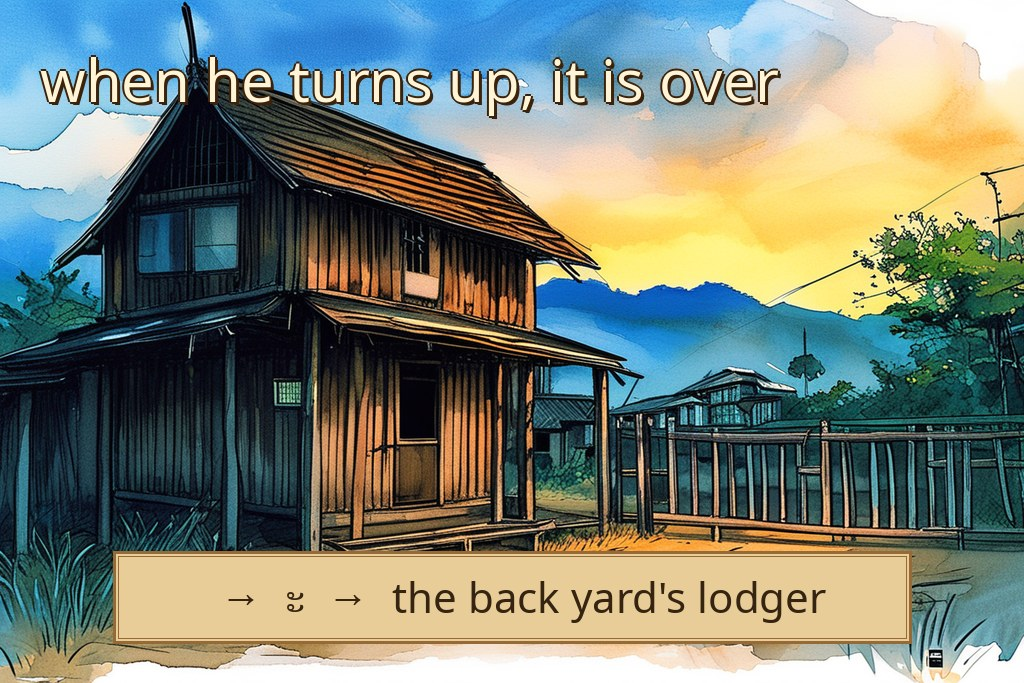
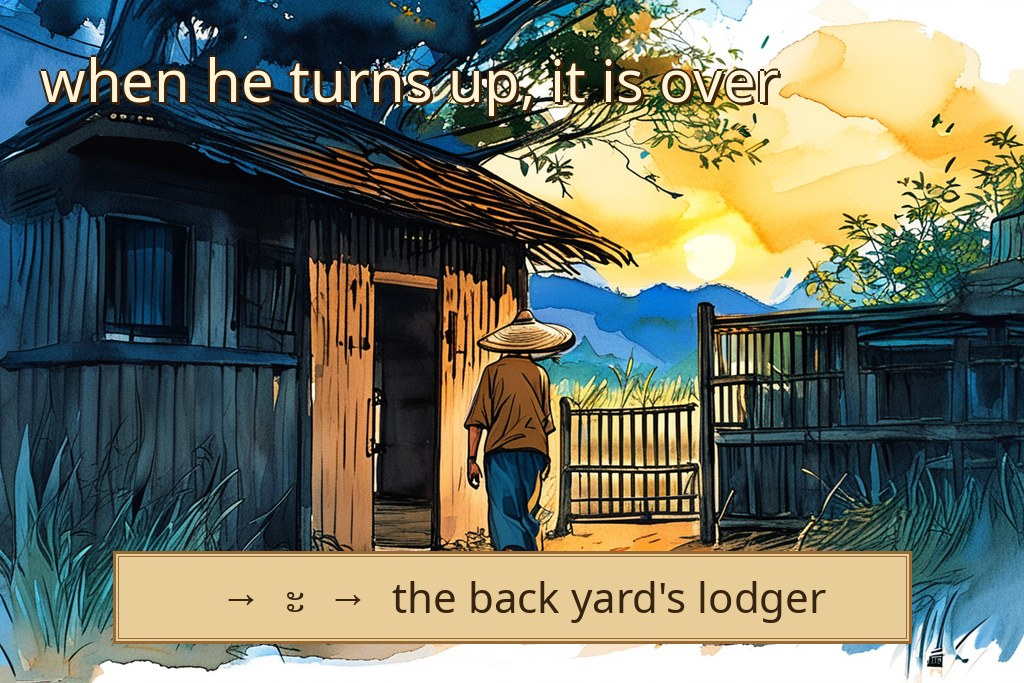
Put the lodgers in their own pictures, and write lesson 5
THE VOWEL PICTURES HAD NOBODY IN THEM. The whole scheme is that a vowel's
part is a person — and then I wrote "No people" into every vowel scene, so
meet-at shipped a caption reading "when he turns up, it is over" and "the
back yard's lodger" over a photograph of an empty house. The caption
promised a person and the picture contradicted it.

meet-ik was the exception and it proves the prompt works: asked for a figure
at the balcony rail, the model drew one, and it is the strongest vowel image
in either lesson. So the four empty ones are re-rendered with their lodger in
them. He arrives through the back gate and swings it shut behind him. He
leans against the closed gate with his arms folded. She comes down the
outside stairs in a hurry, which is the short form of the roof's vowel. And
he climbs a ladder because a handcart has taken the whole yard, which is mai
han akat with a person in it.

LESSON 5 follows the same bargain as lessons 3 and 4: ฟ is พ with one stroke
grown taller, so the two share a shrine at the top of the beach — a tray, and
on the tray a tooth somebody brought up in a net thirty years ago and nobody
wanted on the boat. The tray's sound is the puff the shrine-keeper puts the
incense out with. The tooth's sound needs no mnemonic at all, because the
letter's own word is a tooth and the sound is made at the teeth; the skeleton
spotted that before I did.

The cellar opens, and it pays off the flick twice over. Lesson 3 planted it,
[…]

diff --git a/content/lessons/lesson-05.md b/content/lessons/lesson-05.md
@@ -5,50 +5,278 @@ lesson: lesson-05
 <!--
 Opening band, lesson 5 of 5. Declares พ and ฟ, and the vowels ุ and ู.
 previews: none
+
+ONE PLACE, ONE PAIR. ฟ is พ with its last stroke grown taller — the shipped
+cue calls it one tooth outgrowing the row — so the two letters share a shrine
+at the top of the beach: a tray, and on the tray a tooth somebody brought back
+out of the water. Same bargain as the elephant and the chain.
+
+BOTH LETTERS BREATHE, which the learner can now test, because lesson 3 taught
+the palm and lesson 4 gave them an aspirated letter to feel. And ฟ's own word
+is fan, a tooth, and the sound is made at the teeth — that is free, and the
+skeleton spotted it before I did.
+
+THE CELLAR OPENS, and it pays off the flick. Lesson 3 planted it, lesson 4
+revealed it upstairs, and here the same idea turns up downstairs: ู is ุ
+reaching further. Two rooms, one rule, and the learner is told plainly that
+this is the second time they have seen it.
+
+The cellar's lodger is อุ้ม, which means to carry or to hold — a common Thai
+nickname, and what a cellar does. Provisional like the others; it wants a
+Thai speaker's ear. Both of his lengths arrive in this lesson, unlike the
+roof's, so the stroke rule is visible on the slide rather than a lesson apart.
+
+MNEMONICS ARE TAKEN, NOT FORCED, and PEN AND PAPER EVERY LESSON, both
+unchanged from lesson 3. A challenge and its answer never share a slide.
 -->
 
-## exposition tray-and-tooth
-heading: phaaw phaan and faaw fan
-- พ is three prongs in a row with every tip stopping level and the head curled outside the left rim — a tray set flat.
-- ฟ is that same figure with its last stroke grown taller than the rest, one tooth outgrowing the row. Its name word is fan, a tooth, which is a useful accident.
-- พ pushes p out on a breath. ฟ brushes breath past the teeth as f. Both breathe; neither hums and neither stops.
+## exposition what-is-here
+image: images/lesson-05/what-is-here.jpg
+scene: A fishing harbour quay in the late afternoon, moored wooden longtail boats, drying nets on poles, the beach rising to scrub and a few low buildings at the top, warm light.
+heading: Two letters, two vowels, and the tone that falls
+narration: en Last of the opening band, and you are going to finish it able to read a fair number of ordinary words. Two consonants, and they are another near-identical pair, which by now you will have noticed is how this alphabet is built. Two vowels, and they open the one room of the house you have not been into yet. And one tone rule, which is the one that finally makes your voice do something interesting — everything so far has been flat, or it has jumped up. Today something falls.
+- Two consonants, another near-identical pair.
+- Two vowels, and the last room of the house.
+- The first tone that **falls**.
+
+## exposition the-trick
+image: images/lesson-05/the-trick.jpg
+scene: A small weathered spirit shrine on a post at the top of a harbour beach, a golden offering tray set on it wrapped in flowers, incense smoking, the sea and moored boats below and behind, late golden light.
+heading: The shrine at the top of the beach
+narration: en Go up the beach, past where the elephant drags the boats out, to where the sand gives up and the scrub starts. There is a shrine up here on a post, about the height of your shoulder, and every harbour in the country has one. Nobody goes out in a boat without stopping at it. There is an offering tray on it, wrapped in flowers, and there is always incense going. And there is one other thing sitting on that tray which we will come to, because it is the second letter and it is the reason people stop and look. Both of today's letters live up here and both are low class, which is the harbour, so no surprises there. And both of them breathe. You have felt this once already, on the elephant — palm up, air thrown. Neither of today's two hums, and neither of them stops. They breathe, and they breathe in two different places in your mouth.
+- Both low class, both at the harbour, both up at the shrine.
+- **Both breathe.** Neither hums, neither stops.
+- Two different places in your mouth. That is the whole difference.
+
+## exposition pen-still-there
+image: images/lesson-01/get-a-pen.jpg
+heading: Pen and paper first
+narration: en Pen and paper before anything, the same as every lesson. Today's pair is the closest yet — the second letter is the first one with a single stroke grown taller — and the hand is what separates letters that the eye slides over. And keep saying both halves of each name out loud while you write it. That habit has been in every lesson because it is the one that stops the alphabet turning into wallpaper.
+- Real paper, a real pen.
+- Today's pair is the closest yet. The hand separates them.
+- Out loud, both halves, every time.
+
+## exposition meet-phaan
+image: images/lesson-05/meet-phaan.jpg
+scene: A golden three-pronged offering tray set flat on a wooden crate, its three tips level, wrapped in flowers, on a fishing harbour quay, moored wooden longtail boats and drying nets behind.
+glyph: พ
+gloss: offering tray letter
+cue: a puff off the lips
+heading: The tray
+narration: en The first letter. Listen to its name.
+recording: th พอ พาน public/audio/consonant-pho-phan.mp3
+narration: en That word means an offering tray — the footed kind you put flowers and money on and leave at a shrine. The sound is a p with a puff behind it. Palm up: it should move, the same way the elephant moved it. Think of blowing out the incense when you have finished at the shrine, which is exactly the shape your mouth makes.
+- Its name is the sound, then a word beginning with that sound.
+- The word means an **offering tray**.
+- A p with a puff behind it. The palm moves.
+
+## exposition phaan-story-1
+image: images/lesson-05/phaan-story-1.jpg
+scene: An elderly Thai woman in a faded blouse kneeling at a small spirit shrine at the top of a harbour beach, setting a golden offering tray down on it, flowers and a lit incense stick in her hands, boats and sea behind and below her, early morning.
+heading: The woman who keeps the shrine
+narration: en Somebody has to keep a shrine, and here it is a woman who has done it since before most of the crews were born. She is up before the boats go out. She puts fresh flowers on the tray, she lights the incense, and she is gone again before the first engine starts, and in forty years she has not missed a morning. The fishermen would not admit out loud that it matters to them. They would also not go out if the tray were empty.
+- She has kept the shrine for forty years, and has not missed a morning.
+- Fresh flowers on the tray, incense lit, gone before the boats.
+- Nobody admits it matters. Nobody goes out if the tray is empty.
+
+## exposition phaan-story-2
+image: images/lesson-05/phaan-story-2.jpg
+scene: Close on an elderly woman's face and hands as she purses her lips and blows out a lit incense stick at a small harbour shrine, a thin curl of smoke rising, golden offering tray with flowers beside her, dawn light.
+heading: The sound she makes at the end of it
+narration: en And the last thing she does, every morning, is lean in and put out the flame with one short puff. Not a blow — a puff, lips together and then open, and the smoke goes sideways. That is the letter. It is the sound of finishing at a shrine. Look at the shape while you hear it: three prongs standing in a row with every tip stopping dead level, which is a tray set flat, and the head curled outside the rim on the left where your pen starts.
+recording: th พอ พาน public/audio/consonant-pho-phan.mp3
+- One short puff to put the flame out. Lips together, then open.
+- Three prongs, all three tips level. A tray set flat.
+- The head curls outside the left rim.
+
+## exposition see-phaan
+thai: พ
+heading: The tray's letter
+- Three prongs in a row, every tip level.
+- The head sits outside the rim, on the left.
+
+## exposition write-phaan
+thai: พ
+heading: Write it now
+narration: en Head first — outside the rim on the left, and clockwise unless you are told otherwise, which you have not been. Then the three prongs, and the thing to get right is that all three tips stop at the same height. Level. That is what makes it a tray, and in about two minutes it is going to be what makes it not the other letter. Write it several times, out loud both halves of the name, and leave it on the page.
+- **Start at the head**, outside the rim on the left.
+- Three prongs, and all three tips stop **level**.
+- Leave it on the page. You will need it in two minutes.
+
+## exposition meet-fan
+image: images/lesson-05/meet-fan.jpg
+scene: A single enormous white tooth standing upright among a row of smaller ones, towering over the rest, on a fishing harbour quay, moored wooden longtail boats and drying nets behind.
+glyph: ฟ
+gloss: tooth letter
+cue: breath past the teeth
+heading: The tooth
+narration: en The second letter, and it is the tray with one thing changed. Listen.
+recording: th ฟอ ฟัน public/audio/consonant-fo-fan.mp3
+narration: en That word means a tooth. And here is a free gift, which does not happen often: the sound of this letter is made at the teeth. Breath pushed out past them. The letter's own word is the part of your mouth that makes its sound, so there is nothing to memorise — put your top teeth on your bottom lip and push air through.
+- Its name is the sound, then a word beginning with that sound.
+- The word means a **tooth**.
+- And the sound is **made at the teeth**. The word tells you how to say it.
+
+## exposition fan-story-1
+image: images/lesson-05/fan-story-1.jpg
+scene: A single enormous white tooth the size of a hand resting on a golden offering tray at a small harbour shrine, wrapped in faded ribbon, flowers around it, sea and moored boats far below, low sun.
+heading: What is on the tray
+narration: en So. The thing on the tray. It is a tooth, and it is the size of a hand, and nobody agrees about what it came out of. It was brought up in a net about thirty years ago by a crew who did not want it on the boat, and it has been on that tray ever since, wrapped in a ribbon that used to be red. The woman puts the flowers around it. Children get lifted up to look at it and are told not to touch it, which has never once worked.
+- A tooth the size of a hand, brought up in a net thirty years ago.
+- Nobody agrees what it came out of.
+- It has sat on the tray ever since, and every child tries to touch it.
+
+## exposition fan-story-2
+image: images/lesson-05/fan-story-2.jpg
+scene: Close on an enormous white tooth standing upright on a golden offering tray, noticeably taller than a row of smaller teeth laid in a line beside it, harbour and boats blurred behind, warm light.
+heading: Why it is that letter and not the other one
+narration: en Look at the two letters side by side and the tooth explains itself. The tray is three prongs, all level. The tooth is the same figure with the last stroke grown taller than the others — one standing up out of the row. Which is exactly what it is doing on that tray: a row of ordinary teeth would not be up there. That one is up there because it outgrew everything around it.
+recording: th ฟอ ฟัน public/audio/consonant-fo-fan.mp3
+- Same figure as the tray, with the last stroke grown taller.
+- One tooth standing up out of the row.
+- That is the only difference between the two letters.
+
+## exposition see-fan
+thai: ฟ
+heading: The tooth's letter
+- The tray, with the final stroke risen above the rest.
+- Same head, same prongs. One of them outgrew the row.
+
+## exposition write-fan
+thai: ฟ
+heading: Write it under the tray
+narration: en Write this one directly underneath the tray you wrote a few minutes ago. Same head, same start, same three prongs — and then let the last one keep going up past the others. Now look at your own two, one above the other, in your own handwriting. That height is the entire difference between an offering tray and a tooth, and the page in front of you is the best argument for writing these down that I can give you.
+- Same head, same prongs. The last one keeps going.
+- Write it **directly under** the tray.
+- Compare your own two. That height is the whole difference.
 
 ## retrieval which-outgrew
 reveal: which-outgrew-answer
-prompt: พ and ฟ share a shape. Say the one difference, and which letter carries it.
+prompt: The two letters share a shape. Say the one difference, and which of them carries it.
+narration: en Before the vowels. The two letters share a shape. Name the one difference between them, and say which of the two is carrying it.
 
 ## reveal which-outgrew-answer
 retrieval: which-outgrew
-- The final stroke is taller than the others.
-- ฟ carries it. พ keeps all three tips level.
+narration: en The final stroke is taller than the others, and the tooth is the one carrying it. The tray keeps all three tips level. If you wrote them both down you will have known that without thinking, and if you did not, go back and write them both down.
+- The final stroke rises above the rest.
+- The **tooth** has it. The tray keeps all three level.
 
-## exposition u-vowels
-heading: The two vowels that hang below the line
-- ุ is a small hook hanging under the floor of its letter: a short u, lips rounded for one beat. ชุด (chút) is an outfit or a set.
-- ู doubles that hook into a deeper ladle: a long uu, held. ดู (duu) is to watch or to look at.
-- These are the first vowels you have met that live below the letter rather than above, before or after it. Thai uses all four positions.
+## exposition down-to-the-cellar
+image: images/lesson-01/the-vowel-house.jpg
+heading: The last room of the house
+narration: en Now the vowels, and back to the house. You have been in the back yard, where a vowel lodges when it is written after its letter, and up on the roof, where it lodges when it is written above. There is one more room and it is the one under the floor. A house like this stands on stilts, so there is a whole storey of shade down there that is not quite a room and is used like one — and a vowel written underneath its consonant lodges in it. Two of them arrive today, and they arrive together, which is the first time that has happened.
+- Back yard: written after. Roof: written above.
+- Underneath the floor is the **cellar**.
+- Two vowels today, and they arrive together.
+
+## exposition meet-um
+image: images/lesson-05/meet-um.jpg
+scene: A man in his fifties sitting on a low stool in the deep shade underneath a Thai house on stilts, mending a basket on his knees, the underside of the floor and the stilts around him, bright yard visible beyond, late afternoon.
+glyph: ุ
+gloss: the cellar's lodger
+cue: written underneath, and short
+heading: The one who lives underneath
+narration: en Listen to his name.
+narration: th อุ้ม
+narration: en It is an ordinary word and it means to carry, or to hold something up — what you do with a small child on your hip. Which is a fair description of what the space under a house does for the house. His mark is a small hook, written under the consonant rather than after it or above it, and that is the only thing that puts him downstairs.
+- The name means **to carry**, or to hold something up.
+- A small hook, written underneath the consonant.
+- Where it is written is the only thing that puts him there.
+
+## exposition the-flick-again
+image: images/lesson-05/the-flick-again.jpg
+scene: Two small hooks side by side in the shade under a house on stilts, one short and one drawn much longer and deeper, chalked on a post, afternoon light.
+glyph: ู
+gloss: the same lodger, held
+cue: the deeper hook is the long one
+heading: And you have seen this trick before
+narration: en Here is the part worth stopping on. There are two of him, and they are the same sound at two lengths — and you already know how to tell which is which, because you learned it upstairs last lesson. The short one is a small hook. The long one is the same hook drawn deeper, reaching further down. That is the same idea as the flick on the roof's mark: more stroke means longer. Two rooms now, one rule, and it is the second cheat code this course has handed you. Upstairs and downstairs, the length is in the stroke.
+- Two of him: same sound, two lengths.
+- The long one is the same hook, drawn **deeper**.
+- **More stroke means longer.** Upstairs and down.
+
+## exposition write-the-cellar
+thai: ู
+heading: Write them both
+narration: en Both of them, on paper, one under the other so you can see the difference in your own hand. Put each one under a consonant you already have — never on its own, because neither of them ever stands on its own. And say the whole syllable out loud as you finish it, not the vowel's name. Here is the long one's real name first, and then the short one's.
+recording: th สระอู public/audio/sara-u-long.mp3
+recording: th สระอุ public/audio/sara-u-short.mp3
+- Write both, one under the other. Compare the depth.
+- Always under a consonant. Never alone.
+- Say the **syllable** out loud, not the vowel's name.
+
+## exposition read-duu
+thai: ดู
+heading: Read this one
+narration: en Two letters, and both of them are yours. The child's letter from the market, and the deep hook underneath it. Work it out and say it out loud before you turn this over.
+- The child's letter, with the deep hook beneath.
+- **Say it aloud before you turn it over.**
+
+## exposition read-duu-answer
+thai: ดู
+heading: That one
+narration: th ดู
+narration: en To look, or to watch. Two marks, and one of the words you will say most often in the language.
+- **ดู** — to look, to watch.
 
 ## rule low-dead-long
 rule: low-dead-long
 
 ## exposition falling
+image: images/lesson-05/falling.jpg
+scene: A steep tiled roof edge against a bright sky with rain running off it in a heavy sheet, falling away down out of frame, blurred harbour below.
 heading: Low class, stopped, on a long vowel
-- Last lesson a low class letter went high on a short vowel, stopped dead. Lengthen that vowel and the pitch does something else entirely: it starts high and drops.
-- พูด (phûut) is to speak. พ is low class, ู is long, and ด seals the syllable dead — so the pitch falls through it.
-- มาก (mâak) and ยาก (yâak) do the same thing with the long า and the k-stop of ก. You have been reading them since lesson three; now you know why they fall.
-- Set that beside พบ (phóp), to meet. Same letter, same kind of stop, short vowel — so it goes high instead.
+narration: en Last lesson a low class letter on a short vowel, stopped dead, went high. Keep everything the same and make the vowel long, and the pitch does something else entirely. It starts high and it falls all the way through the word. Listen.
+narration: th พูด
+narration: en To speak. The tray's letter is low class, the vowel underneath it is the long one, and the child's letter seals it dead — and the pitch falls through the whole syllable. Now hear it against the short version.
+narration: th พบ
+narration: en To meet. Same letter at the front, same kind of dead ending, and the only thing that changed is that the vowel got short. So it goes high instead of falling.
+- Low class, long vowel, dead ending: the pitch **falls**.
+- Short vowel in the same frame: it goes **high** instead.
+- One difference between them, and it is the length.
+
+## exposition already-falling
+image: images/lesson-05/already-falling.jpg
+scene: A heavy wooden fishing boat being dragged up a steep beach on a taut chain, sand ploughed up in front of it, the sea behind, hard afternoon light.
+heading: Two words you have been reading since lesson three
+narration: en And you have been saying two of these correctly for two lessons without knowing why. Listen.
+narration: th มาก
+narration: en Much, or very. Low class at the front, the long vowel from lesson one, and the chicken's letter sealing it dead. That is the falling rule, and you have been copying it by ear since lesson three. Here is the other one.
+narration: th ยาก
+narration: en Difficult. Same shape exactly. This is what the rules are for — you stop copying what you heard and start knowing what it has to be.
+- Both are low class, long vowel, dead ending.
+- Both fall, and both have since lesson three.
+- You stop copying by ear and start knowing.
 
 ## retrieval short-or-long
 reveal: short-or-long-answer
-prompt: พูด and พบ both open on พ and both end dead. One falls and one goes high. Which is which, and what is the only thing separating them?
+prompt: Two words open on the tray's letter and both end dead. One falls and one goes high. Which is which, and what is the only thing separating them?
+narration: en Last question of the opening band. Both words on screen open on the tray's letter, and both of them end dead. One falls and one goes high. Say which is which — and then say what the only difference between them is.
 
 ## reveal short-or-long-answer
 retrieval: short-or-long
-- พูด falls. พบ goes high.
-- Vowel length, and nothing else. ู is long, so the low class dead rule sends it falling; พบ has a short vowel, so the rule you learned last lesson sends it up.
+narration: en The one with the long vowel falls. The one with the short vowel goes high. The class is the same in both, the ending is the same in both, and the vowel length is doing all of the work. Which is why the mark that tells you the length is worth as much as it is.
+- Long vowel, dead ending, low class: **falls**.
+- Short vowel, same frame: **high**.
+- Length is the only difference, and you can see it.
 
-## exposition more-words
-heading: Words you can read now
-- ฟัง (fang) is to listen. ฟัน (fan) is a tooth. พา (phaa) is to lead someone somewhere. พวก (phûak) is a group of people.
-- มุม (mum) is a corner or an angle — the short hook under ม, and a word you can read at a glance.
-- Twelve consonants and seven vowels in, and the words are ordinary ones. That was the point of the order they came in.
+## exposition read-fang
+thai: ฟัง
+heading: One more to read
+narration: en Three letters, and you have had all three for at least a lesson. The tooth's letter, the curl on the roof from last lesson, and the snake's letter closing it without stopping it. Out loud before you turn it over.
+- Tooth, curl above, snake closing it.
+- **Out loud before you turn it over.**
+
+## exposition read-fang-answer
+thai: ฟัง
+heading: That one
+narration: th ฟัง
+narration: en To listen. Which is what you have been doing for five lessons, and now you can read the word for it.
+- **ฟัง** — to listen.
+
+## exposition read-close
+heading: The opening band, finished
+narration: en That is the opening band done. Twelve letters, seven vowels, four tone rules, and a house with every room open. Look at what that actually buys you: you can pick up a word you have never seen, made of letters you know, and work out not only what sounds are in it but what your voice has to do with them. That is the thing almost nobody who learns Thai from romanisation can do, and you have it after five lessons. From here the alphabet gets wider rather than harder — more letters, the same machine.
+- Twelve letters, seven vowels, four tone rules.
+- Every room of the vowels' house is open.
+- You can read a word you have never seen and know its tone.

diff --git a/content/lessons/lesson-04.md b/content/lessons/lesson-04.md
@@ -164,7 +164,7 @@ narration: en Now the vowel, and for that you go back to the house. You have bee
 
 ## exposition meet-at
 image: images/lesson-04/meet-at.jpg
-scene: A wooden Thai house on stilts seen across its swept back yard at dusk, one lit window, a low gate standing open at the edge of the yard, dry grass and distant hills. No people.
+scene: A man in a straw hat stepping in through a low wooden gate at the back of a Thai house on stilts, one hand already swinging the gate shut behind him, swept yard, one lit window above, dusk, dry grass and distant hills.
 glyph: ะ
 gloss: the back yard's lodger
 cue: when he turns up, it is over
@@ -178,7 +178,7 @@ narration: en It is an ordinary word and it means to press, or to compress — t
 
 ## exposition the-cheat-code
 image: images/lesson-04/the-cheat-code.jpg
-scene: A low wooden gate standing open at the edge of a swept yard, evening light across dry grass, distant hills beyond. No people.
+scene: A man in a straw hat leaning back against a closed wooden gate at the edge of a swept yard, arms folded, evening light across dry grass, distant hills beyond.
 heading: The best shortcut you will get
 narration: en Here is why he is worth more than the two letters. There are thirty vowels in Thai and every one of them is either long or short, and getting that wrong changes the word. Thirty things to learn — except that nine of them simply carry him on the end, and every single time he is there, the vowel is short. No exceptions. So a third of the problem is solved by looking. But listen to how that rule runs, because it runs one way only. Seeing him tells you it is short. Not seeing him tells you nothing at all.
 - Every vowel is long or short, and it changes the word.
@@ -187,7 +187,7 @@ narration: en Here is why he is worth more than the two letters. There are thirt
 
 ## exposition short-i
 image: images/lesson-04/short-i.jpg
-scene: A steep tiled roof seen from below against an evening sky, the eaves running away to one side, dry hills in the distance. No people.
+scene: A young woman in a plain dark dress hurrying down the outside stairs of a Thai house on stilts, one hand on the rail, the steep tiled roof and eaves above her, evening sky, dry hills in the distance.
 glyph: ิ
 gloss: the roof's lodger, in a hurry
 cue: the flick is gone
@@ -228,7 +228,7 @@ rule: mai-han-akat
 
 ## exposition han-akat
 image: images/lesson-04/han-akat.jpg
-scene: A swept back yard behind a wooden Thai house on stilts, a loaded handcart parked squarely across the yard leaving no room to stand, a ladder leaning up to the roof, evening light. No people.
+scene: A man in a straw hat halfway up a ladder to the roof of a Thai house on stilts, looking back down at a loaded handcart parked squarely across the swept yard below leaving no room to stand, evening light.
 heading: When the back yard is taken
 narration: en One thing about the back yard. It is not very big, and it is where a final consonant stands too. So when a syllable has a short vowel and something after it, both of them want the same spot, and the vowel is the one that moves. He goes up on the roof instead, and he leaves a different mark there — a single curl above the first letter. Same man. Same sound. Same short. The only thing that changed is where he was standing.
 narration: th วัน
